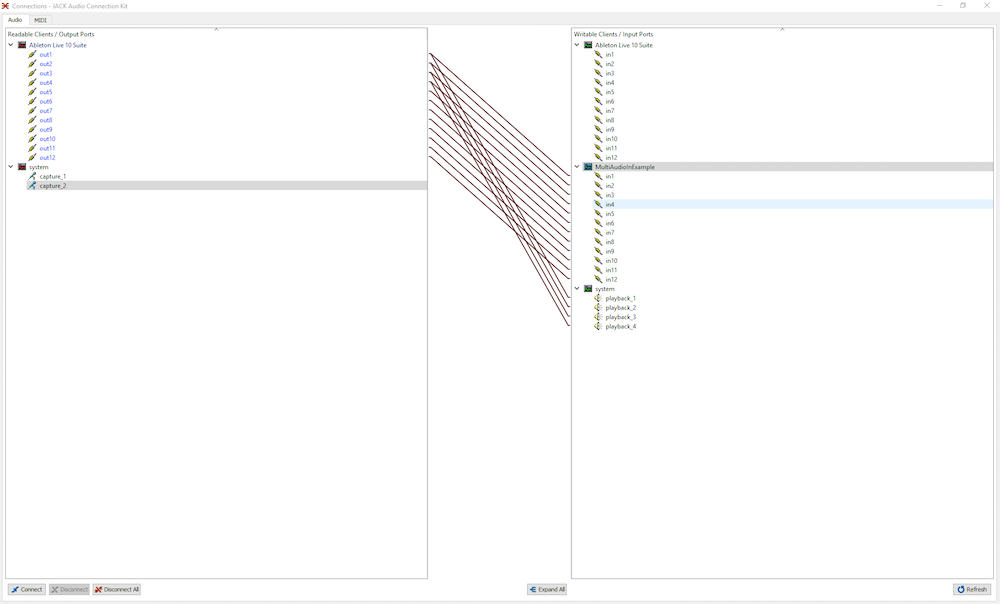
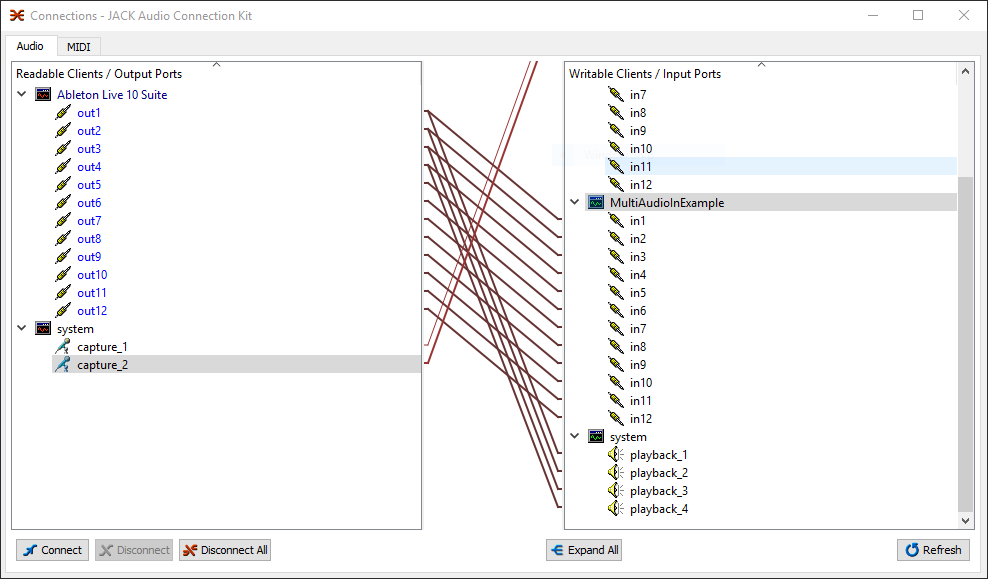
Improve layout and changed jacaudio image.

Changed region(s): [[0.0, 0.0, 1.0, 1.0], [0.9717, 0.0, 1.0, 0.0622], [0.9109, 0.0, 0.9413, 0.0311]]

diff --git a/_posts/2018-04-20-audio-rewire.md b/_posts/2018-04-20-audio-rewire.md
@@ -45,7 +45,7 @@ ofSoundStream, after setup, called the method _audioIn_ using [ofSoundBuffer](ht
 void ofApp::audioIn(ofSoundBuffer &inBuffer)
 ```
 
-alternatively you alternatively you can use the float buffer directly (now is commented). **In my experience it's more boring but it solved me an annoying vector error in Window 10 using audiojack.**
+alternatively you alternatively you can use the float buffer directly (now is commented). **In my experience it's more boring but it solved me an annoying vector error in Window 10 using audio jack.**
 ```c++
 void ofApp::audioIn(float * input, int bufferSize, int nChannels)
 ```
@@ -58,12 +58,10 @@ So ... from the bottom of my heart I apologise to linux users (which I admire ev
 Some other compatibility is available, but in this post we will only consider the combinations that we have personally tested.
 
 
-### Mac OS
-**Loopback**
+# Mac OS
+## Loopback
 
 [Loopback](https://rogueamoeba.com/loopback/) is the best ready to go software for Mac OS, the natural successor of [SoundFlower](https://rogueamoeba.com/freebies/soundflower/).
-
-![Loopback.png](../images_posts/2018-04-20-loopback.png)
 
 Pros | Cons
 ------------ | -------------
@@ -72,22 +70,21 @@ Continuous updates | It's not open source
 Autostart | Available only for Mac OS
 Unlimited virtual channels (tested 12x channels) | Static routing audio (you cannot select each application)
 
+![Loopback.png](../images_posts/2018-04-20-loopback.png)
+
 
 We use Loopback for our interactive show [Dökk](http://fuseworks.it/en/project/dokk-en/) and we are very satisfied: you need just select Loopback as audio device and create virtual channels.
 
-**SoundFlower**
+## SoundFlower
 
 We used often [SoundFlower](https://github.com/RogueAmoeba/Soundflower-Original) in the past, but now we use only Loopback. So i can't explain if is still available for the last Mac OS, but seeing the github repository is not update from several years.
 
 
-### Windows
+# Windows
 
-**Jack Audio**
+##Jack Audio
 
 [JACK Audio](http://jackaudio.org/) is _"a professional sound server daemon that provides real-time, low-latency connections for both audio and MIDI data between applications that implement its API"_.
-
-![Jackaudio.png](../images_posts/2018-04-20-jackaudio.png)
-
 
 Pros | Cons
 ------------ | -------------
@@ -96,10 +93,11 @@ Open source | It doesn't work with all audio software [[1]()] [[2]()]
 Unlimited virtual channels (tested 12x channels) |
 Very flexible routing audio for each application |
 
-
 [1] _JACK (in windows) works with PortAudio driver so audio application have to use that driver. In my experience JACK with [ASIO4ALL](http://www.asio4all.org/), the sound was generated using [Ableton Live 10](https://www.ableton.com/en/live/)._
 
 [2] _In Live 10 select Driver Type: ASIO4ALL, Audio Output Device: JackRouter._
+
+![Jackaudio.png](../images_posts/2018-04-20-jackaudio.png)
 
 
 ##### JACK with OpenFrameworks
@@ -107,16 +105,9 @@ Very flexible routing audio for each application |
 I tested with success OF 0.9.8 in a Windows 10 machine using Visual Studio 2015. After started the OF app, you can see the name of application in the _Jack Audio Connection Kit_ and you can connect (using mouse dragging) the Output to the Input. You can create [persistent connection](http://jackaudio.org/faq/persistent_connections.html) using [PatchBay](http://www.rncbc.org/drupal/node/76).
 
 
-![Jackaudio.png](../images_posts/2018-04-20-dante-via.png)
-
-
-
-**Dante Via**
+## Dante Via
 
 After numerous researches i finally found an alternative to Loopback for Windows, this is [Danta Via](https://www.audinate.com/products/software/dante-via).
-
-
-IMMAGINE
 
 Pros | Cons
 ------------ | -------------
@@ -125,11 +116,13 @@ Avaible for Windows and Mac OS | It's not open source
 Very flexible route audio for each application| Limited to 16x16 channels
 Possibility to route sound over network [[3]()]  |
 
-
 [3] _Very interesting, but I did not have the chance to test it._
 
 
+![DanteVia.png](../images_posts/2018-04-20-dante-via.png)
 
-#### Audio Over network
+
+
+# Audio Over network
 
 An interesting research is send audio samples buffer over network. We tried through OSC messages between Max MSP and OpenFrameworks, but we met several problem. If you have some suggestion or ideas are welcome!
